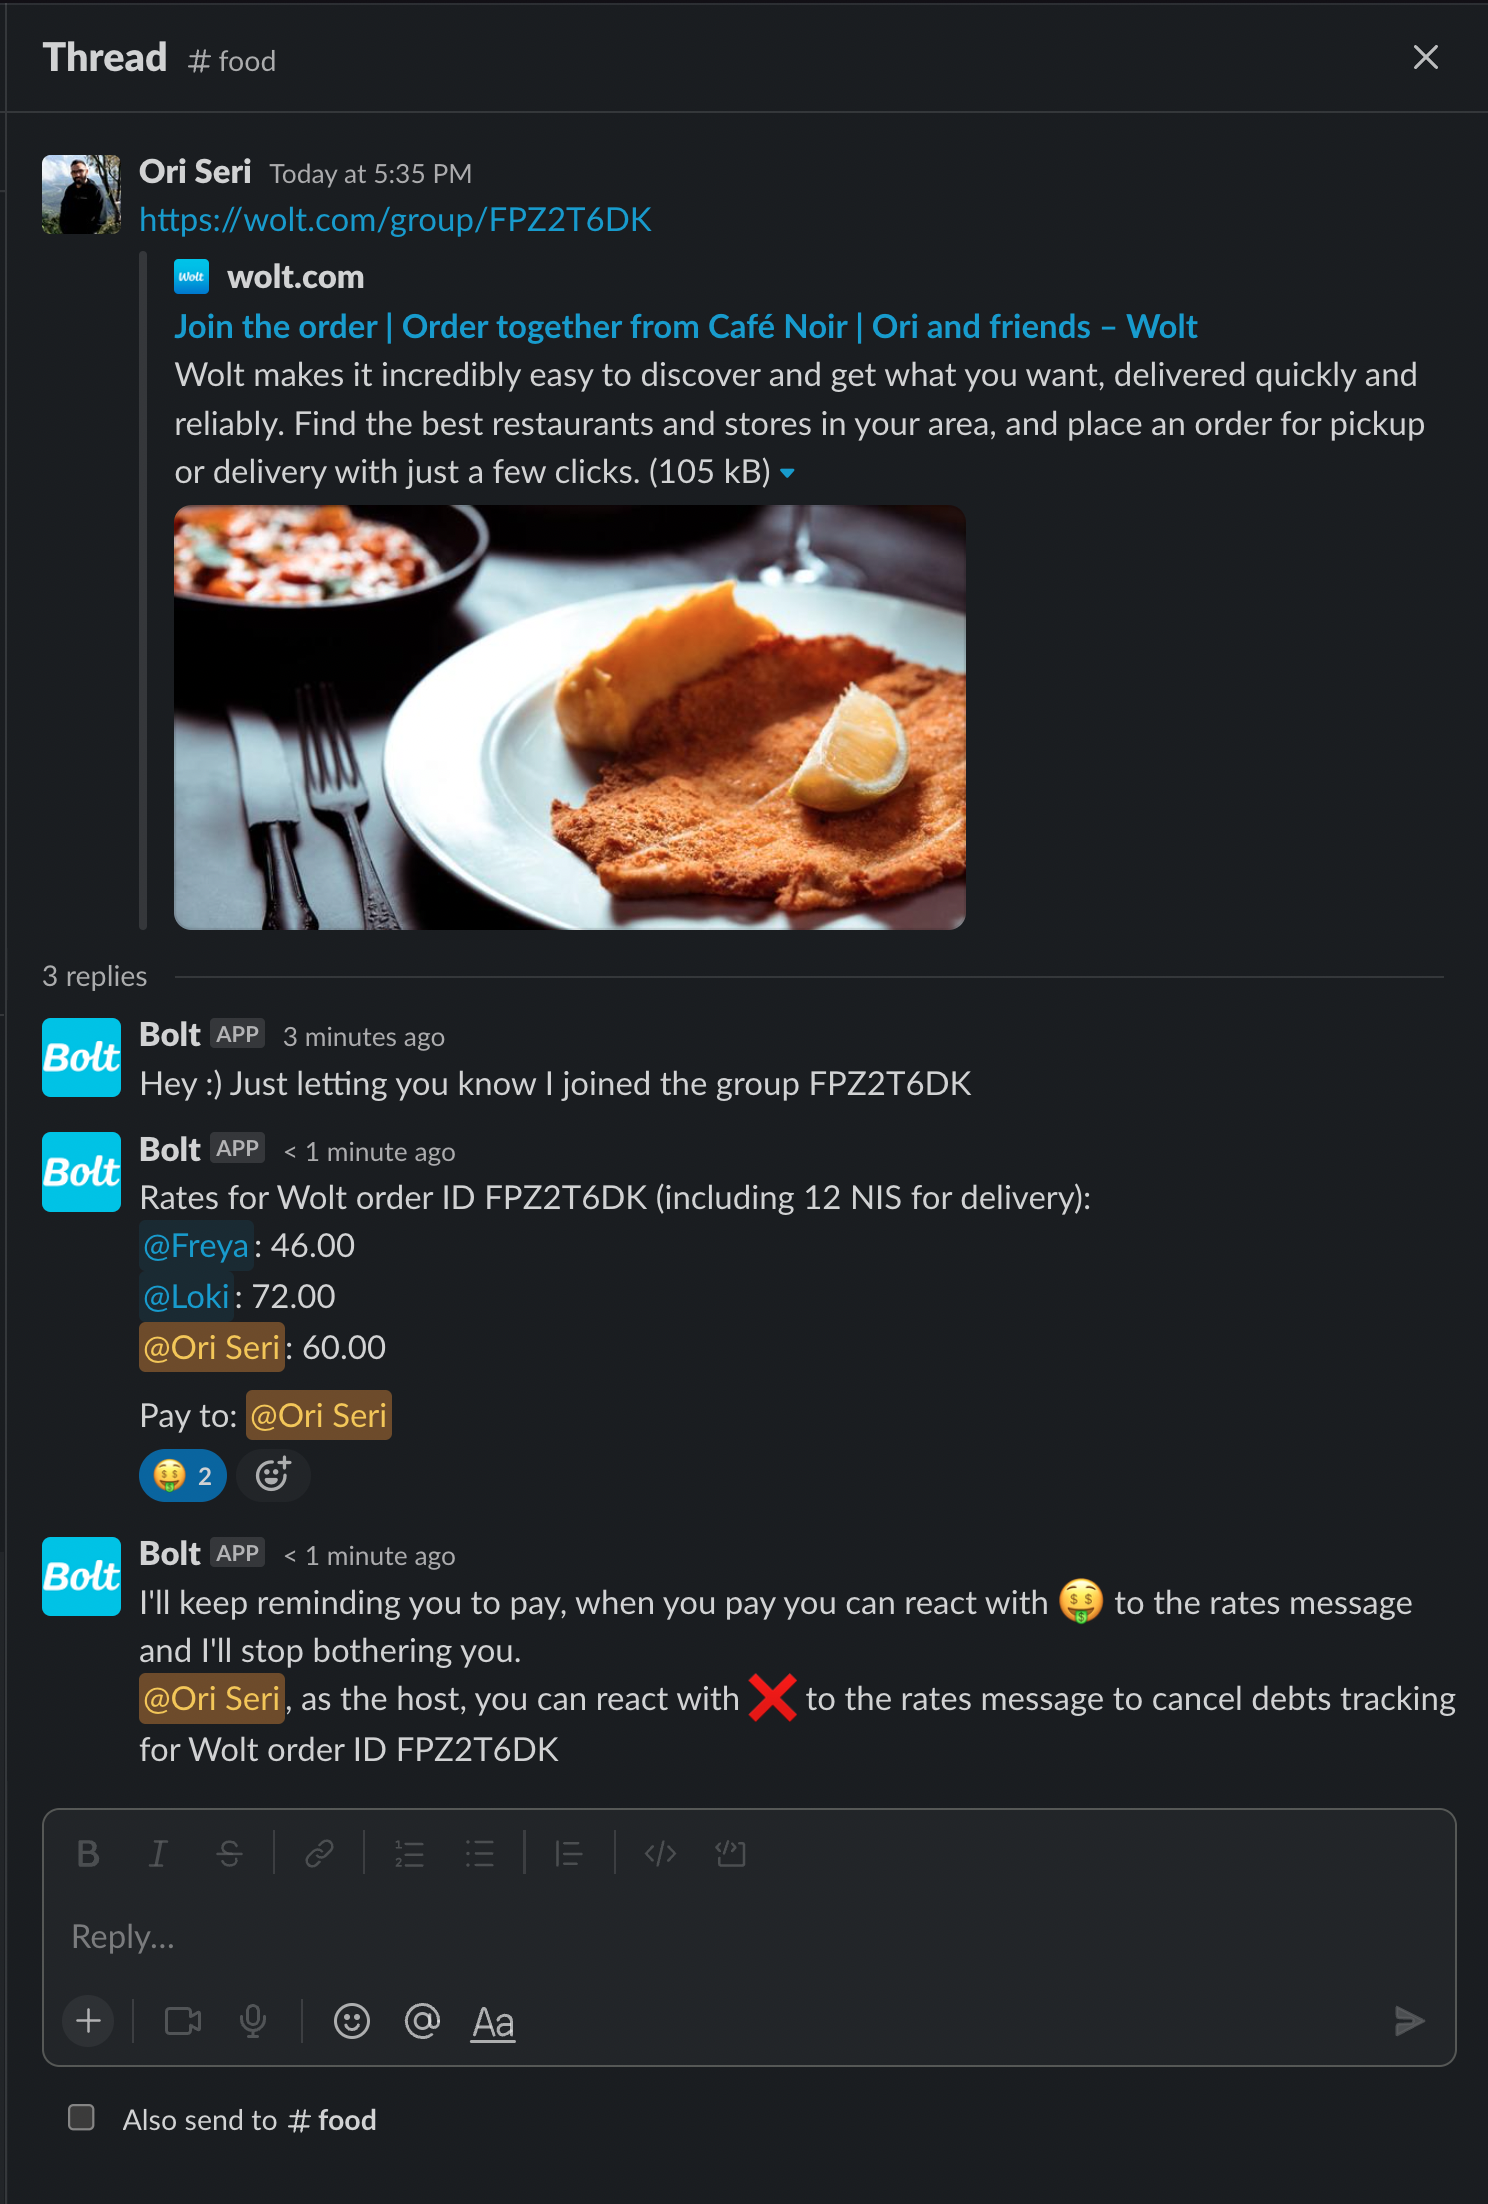
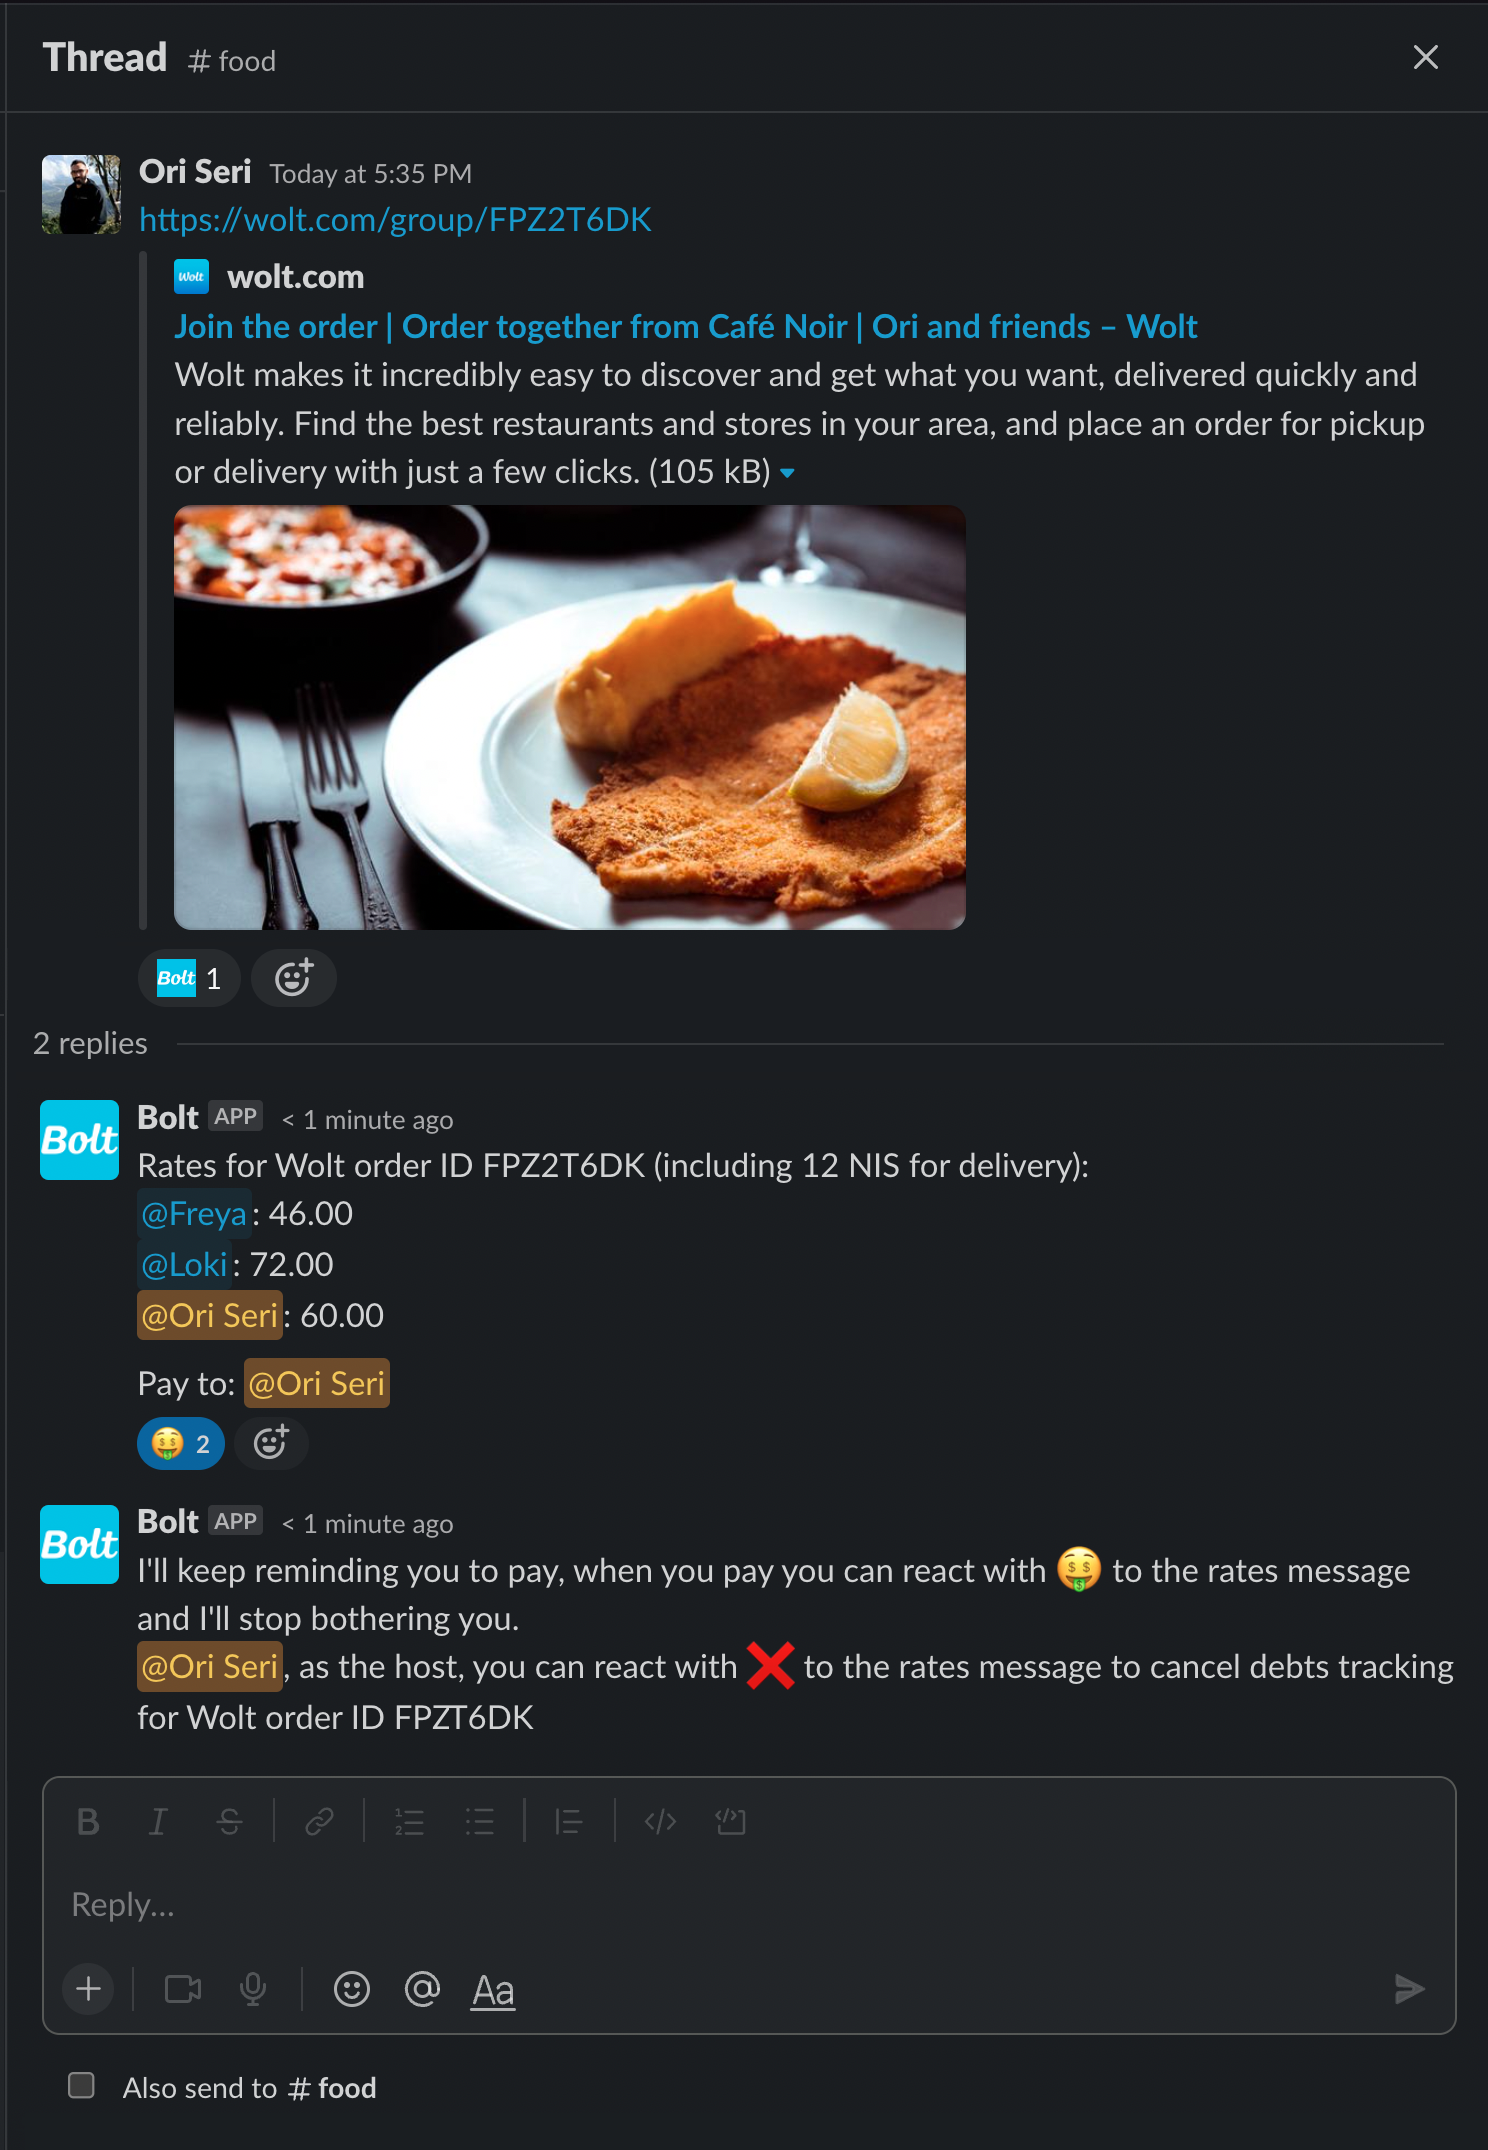
Replace "about to join" message with emoji (#17)
* Replace "about to join" message with emoji

* Replace error with `errWontJoin`

---------

diff --git a/service/rate.go b/service/rate.go
@@ -64,6 +64,11 @@ func (h *Service) HandleLinkMessage(req LinksRequest) (string, error) {
 	h.currentlyWorkingOrders.Store(groupID.ID, nil)
 	defer h.currentlyWorkingOrders.Delete(groupID.ID)
 
+	err := h.eventNotification.AddReaction(req.Channel, req.MessageID, h.cfg.JoinedOrderEmoji)
+	if err != nil {
+		return "", errWontJoin
+	}
+
 	groupRate, err := h.getRateForGroup(req.Channel, groupID.ID, req.MessageID)
 	if err != nil {
 		if errors.Is(err, errNotInTime) {
@@ -233,13 +238,13 @@ func (h *Service) saveOrderAsync(order *groupOrder, groupRate GroupRate, receive
 func (h *Service) getRateForGroup(receiver, groupID, messageID string) (groupRate GroupRate, err error) {
 	shouldHandleOrder := h.shouldHandleOrder()
 
-	msg := fmt.Sprintf("Hello! I'm about to join group order %s", groupID)
 	if !shouldHandleOrder {
-		msg = fmt.Sprintf("%s. But it's too late for me.. I won't track prices for this order :sleeping:", msg)
+		_, err := h.informEvent(receiver, "It's too late for me... I won't track prices for this order :sleeping:", "", messageID)
+		if err != nil {
+			return GroupRate{}, errWontJoin
+		}
 	}
-	if _, err := h.informEvent(receiver, msg, "", messageID); err != nil {
-		return GroupRate{}, errWontJoin
-	}
+
 	order, err := h.joinGroupOrder(groupID)
 	if err != nil {
 		_, _ = h.informEvent(receiver, "I had an error joining the order", "", messageID)

diff --git a/testing/integration_test.go b/testing/integration_test.go
@@ -56,10 +56,6 @@ const (
 	DefaultHost             = "Bolt"
 )
 
-const (
-	HelloPattern = `Hello! I'm about to join group order %s`
-)
-
 var timezones = []string{
 	"Europe/London",       // +0
 	"Asia/Almaty",         // +6
@@ -668,10 +664,13 @@ func TestSlackPurchaseGroup(t *testing.T) {
 			require.NoError(t, err)
 			assert.Equal(t, 200, resp.StatusCode)
 
-			// Verifying joined message
-			_, err = WaitForOutboundSlackMessage(WaitForMessageTimeout, tdata.slackServer, fmt.Sprintf(HelloPattern, orderShortID),
-				MessageChannel, timestamp, EqualMatch)
-			require.NoError(t, err)
+			// Verifying joined reaction
+			err = WaitForOutboundReaction(WaitForMessageTimeout, tdata.customSlack, customslack.Reaction{
+				Name:      "eyes",
+				Channel:   MessageChannel,
+				Timestamp: timestamp,
+			})
+			assert.NoError(t, err)
 
 			// Adding relevant participants as users in Slack
 			participantIDsMapping := make(map[string]string)

diff --git a/service/service.go b/service/service.go
@@ -21,6 +21,7 @@ type Config struct {
 	OrderDoneTimeout         time.Duration `env:"ORDER_DONE_TIMEOUT" envDefault:"3h"`
 	TimeTillGetReadyMessage  time.Duration `env:"TIME_TILL_GET_READY_MESSAGE" envDefault:"7m"`
 	OrderDestinationEmoji    string        `env:"ORDER_DESTINATION_EMOJI" envDefault:"house"`
+	JoinedOrderEmoji         string        `env:"JOINED_ORDER_EMOJI" envDefault:"eyes"`
 	TimeoutForDeliveryRate   time.Duration `env:"GET_DELIVERY_RATE_TIMEOUT" envDefault:"10m"`
 	WaitBetweenStatusCheck   time.Duration `env:"WAIT_BETWEEN_STATUS_CHECK" envDefault:"20s"`
 	DebtReminderInterval     time.Duration `env:"DEBT_REMINDER_INTERVAL" envDefault:"3h"`

diff --git a/docs/configuration.md b/docs/configuration.md
@@ -12,6 +12,7 @@ Bolt is configured using environment variables
 * `ORDER_DONE_TIMEOUT` - Timeout for waiting for the Wolt group order to be delivered after payment. After that duration, Bolt will stop tracking that order. Default is 3h (3 hours).
 * `TIME_TILL_GET_READY_MESSAGE` - Defines how long before the delivery ETA the "get ready" message will be sent. Default is 7m (7 minutes).
 * `ORDER_DESTINATION_EMOJI` - The emoji used to represent the order's destination in the progress message. Default is :house:.
+* `JOINED_ORDER_EMOJI` - The emoji Bolt adds to the link message once it joined the order. Default is :eyes:.
 * `DEBT_REMINDER_INTERVAL` - Time to wait between each reminder of unpaid debt in duration format. Default is 3h (3 hours).
 * `DEBT_MAXIMUM_DURATION` - Maximum duration for keep reminding about unpaid debt in duration format. After that time, no more reminders will be sent. Default is 24h (24 hours).
 * `WAIT_BETWEEN_STATUS_CHECK` - Duration between polling for Wolt order status in duration format. Default is 20s (20 seconds).
